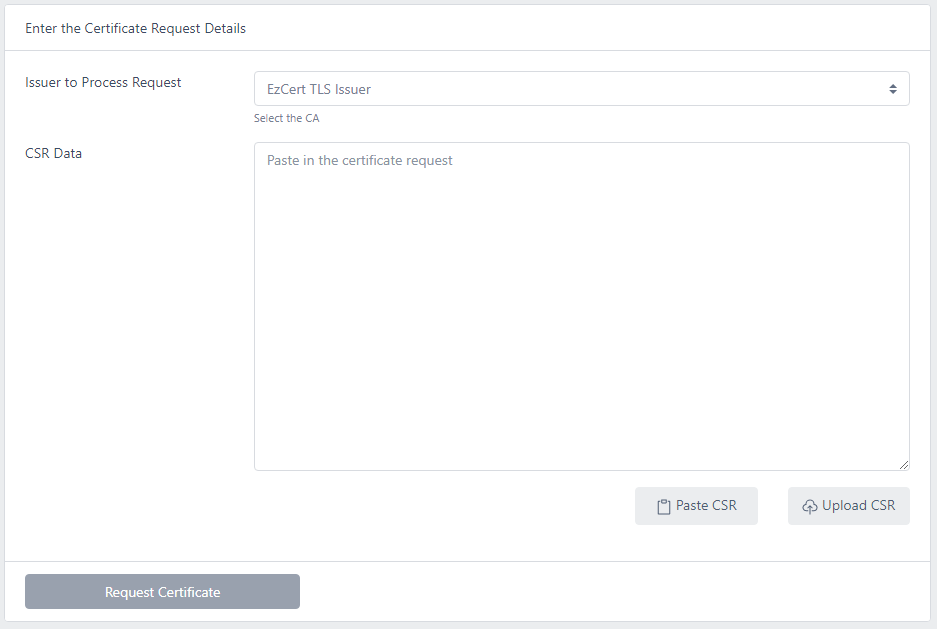
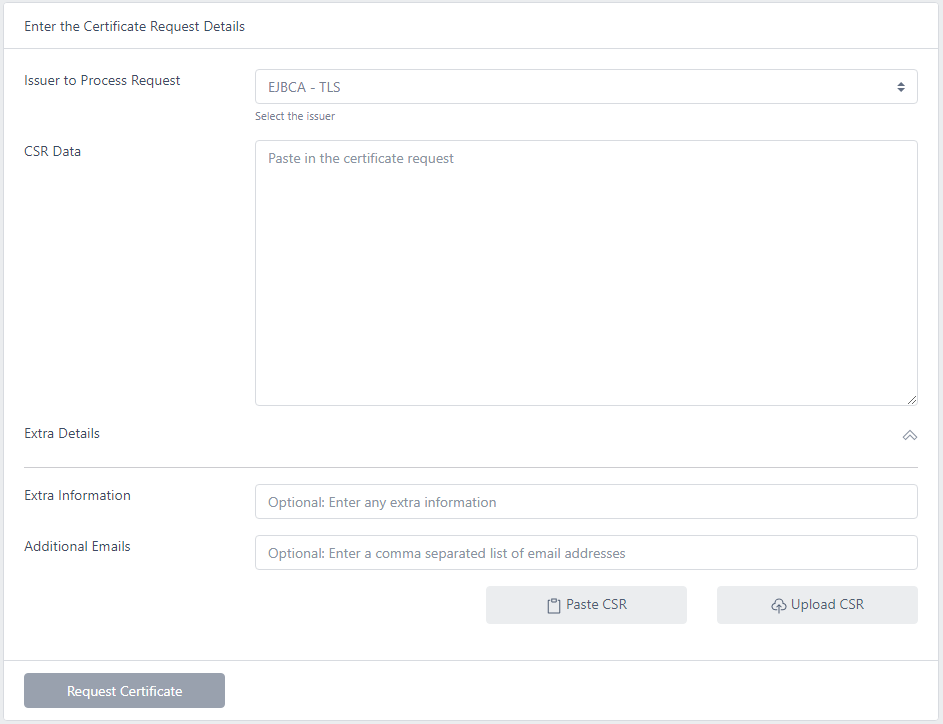
Added teams and updated settings

diff --git a/ezcert/issuing-a-certificate.md b/ezcert/issuing-a-certificate.md
@@ -15,19 +15,29 @@ From the menu, select **Request**
 
 If you have already generated a CSR, choose **CSR Request**  
 
-If you want EzCERT to generate the request on your behalf and return a PKCS#12 file, choose **DN Request**  
+If you want EzCERT to generate the request on your behalf and return a PKCS#12 (JKS or PEM) file, choose **DN Request**  
+
+
 
 ---
 
 **CSR Request**  
 
-<img src=".\images\csr_request.png" alt="image-20210121192327033" style="zoom:67%;" />
+<img src=".\images\csr_request.png" alt="image-20210222160916572" style="zoom:67%;" />
 
 From the *Issuer to Process Request* drop down, select the issuer you want to issue this certificate  
 
 Click **Paste CSR** if you have copied the data or choose **Upload CSR** if you want to upload a file CSR  
 
+If you wish to add additional data to certificate, click **Click to add extra details**  
+
+You may then enter test as Extra Information (e.g. "This certificate resides on server srv44772") or additional emails. Any emails entered will also be sent the certificate on issuance and renewal reminders (if configured). Multiple email addresses must be comma separated e.g. user1@org.com,user2@org.com 
+
 Click **Request Certificate**
+
+
+
+
 
 ---
 
@@ -41,11 +51,15 @@ For *Issuer to Process Request*, choose the required issuer
 
 Choose a *CSR Generator* from the drop down  
 
-If you require any SANs (Subject Alternative Names) such as a DNS entry (as required for TLS certificates), click the drop down and enter the required SANs:
+If you wish to add additional data to certificate, click **Click to add extra details**  
+
+You may then enter test as Extra Information (e.g. "This certificate resides on server srv44772") or additional emails. Any emails entered will also be sent the certificate on issuance and renewal reminders (if configured). Multiple email addresses must be comma separated e.g. user1@org.com,user2@org.com  
+
+If you require any SANs (Subject Alternative Names) such as a DNS entry (as required for TLS certificates), click the drop down and add the required SANs:
 
 <img src=".\images\sans.png" alt="image-20210121192822632" style="zoom:67%;" />
 
-Enter a **password**. This password will protect the PKCS#12 file. Then click **Request Certificate**
+Enter a **password**. This password will protect the PKCS#12 (JKS or PEM) file. Then click **Request Certificate**
 
 ---
 
@@ -53,9 +67,14 @@ The certificate will be issued:
 
 <img src=".\images\cert_issued.png" alt="image-20210121193025891" style="zoom:67%;" />
 
-Click **Download PKCS12** to download. Note: If you do not download the PKCS12 file now you will not be able to come back and download it later. The PKCS12 file is not stored as all keys that were generated as part of the CSR generation process are deleted immediately the certificate is issued  
+You may then download the certificate, chain or PKCS#12 file. Alternatively, click **More** to display further details:
 
-You can then download the certificate or certificate chain (you will be able to do this at any time in the future) or click **More** for further certificate details
+<img src=".\images\download_options_ss.png" style="zoom:67%;" />
+
+From here you can download other formats as well as the CSR if required  
+Note: The PKCS#12, JKS and PEM options will only function whilst the key data is retained. This period is defined in the settings as the *Private Key Retention Period*  
+
+If this is set to 0 (zero), key data will not be retained though you will still be able to download the PKCS#12 file immediately following issuance
 
 
 

diff --git a/ezcert/teams.md b/ezcert/teams.md
@@ -1,0 +1,58 @@
+---
+layout: default
+title: Teams
+parent: EzCert
+nav_order: 8
+---
+
+# Teams
+
+
+
+Teams group users and permissions together  
+
+A team manages the permissions for Certificate Issuers and dictates whether members are administrators or standard users  
+
+By default, one team exists called *Admin Team*  
+
+You may add, remove or edit teams as per your requirements. However, generally, it is advisable to maintain a single administrator team (rather than multiple) and have separate teams for specific Certificate Issuer access  
+
+This will enable you to quickly search and view users with administrative privileges on the system. If a user requires administrative access, they can then be added to this one team   
+
+
+
+### Add a Team
+
+Select **Teams** from the menu, click **Add New  Team**
+
+<img src=".\images\teams1.png" alt="image-20210222155155216" style="zoom:67%;" />
+
+Enter a **name** and optionally, a **description**  
+
+Select the **Certificate Issuers** that you want to be available to members of this team 
+
+If you wish to make everyone in this team an administrator, select the **Administrator** option  
+
+Click **Add**  
+
+
+
+### Add a User to a Team
+
+Click **Users** from the menu  
+
+Search for and click on the User then select **Edit**  
+
+ <img src=".\images\teams2.png" alt="image-20210222160044126" style="zoom:67%;" />
+
+Select the teams from the *Teams* list. Multiple teams may be selected (in windows you can select multiple by holding down CTRL, on Mac OS you hold down the Command Key). Click **Update**  
+
+Note that if a user is already a member of any teams their resulting permissions will be displayed beside *Current Certificate Issuers*. This view is only updated once the user has been added to a team (it will not change as you select the teams from the list)  
+
+
+
+If a user is not a member of any Team, they will be able to logon to the system and view certificates but not request certificates nor make any changes to the system
+
+
+
+### 

diff --git a/ezcert/settings.md b/ezcert/settings.md
@@ -8,8 +8,11 @@ nav_order: 19
 
 The settings can be viewed by selecting the **Settings > Settings** option on the menu
 
-<img src=".\images\settings.png" alt="image-20210122135921795" style="zoom:80%;" />
+<img src=".\images\settings.png" alt="image-20210222163700318" style="zoom:80%;" />
 
+* Private Key Retention Period
+  * If a user generates a certificate using the *Request DN* option, then EzCERT also generates the keys and CSR. This period defines for how long this data will be retained by the system
+  * Whilst the key data is retained the owner of the certificate can return to the system and download the certificate as a PKCS#12, JKS or PEM file. Once this period has expired, this data will be purged from the system and will no longer be available
 * API Key Total Lifetime
   * When a user logs in successfully, an authorisation token (or API key) is returned which the user (or user interface) uses to authenticate from then on
   * This value determines for how long that token/key can be used before it expires. When it expires a user will be required to re-authenticate - even if they are still using the system
